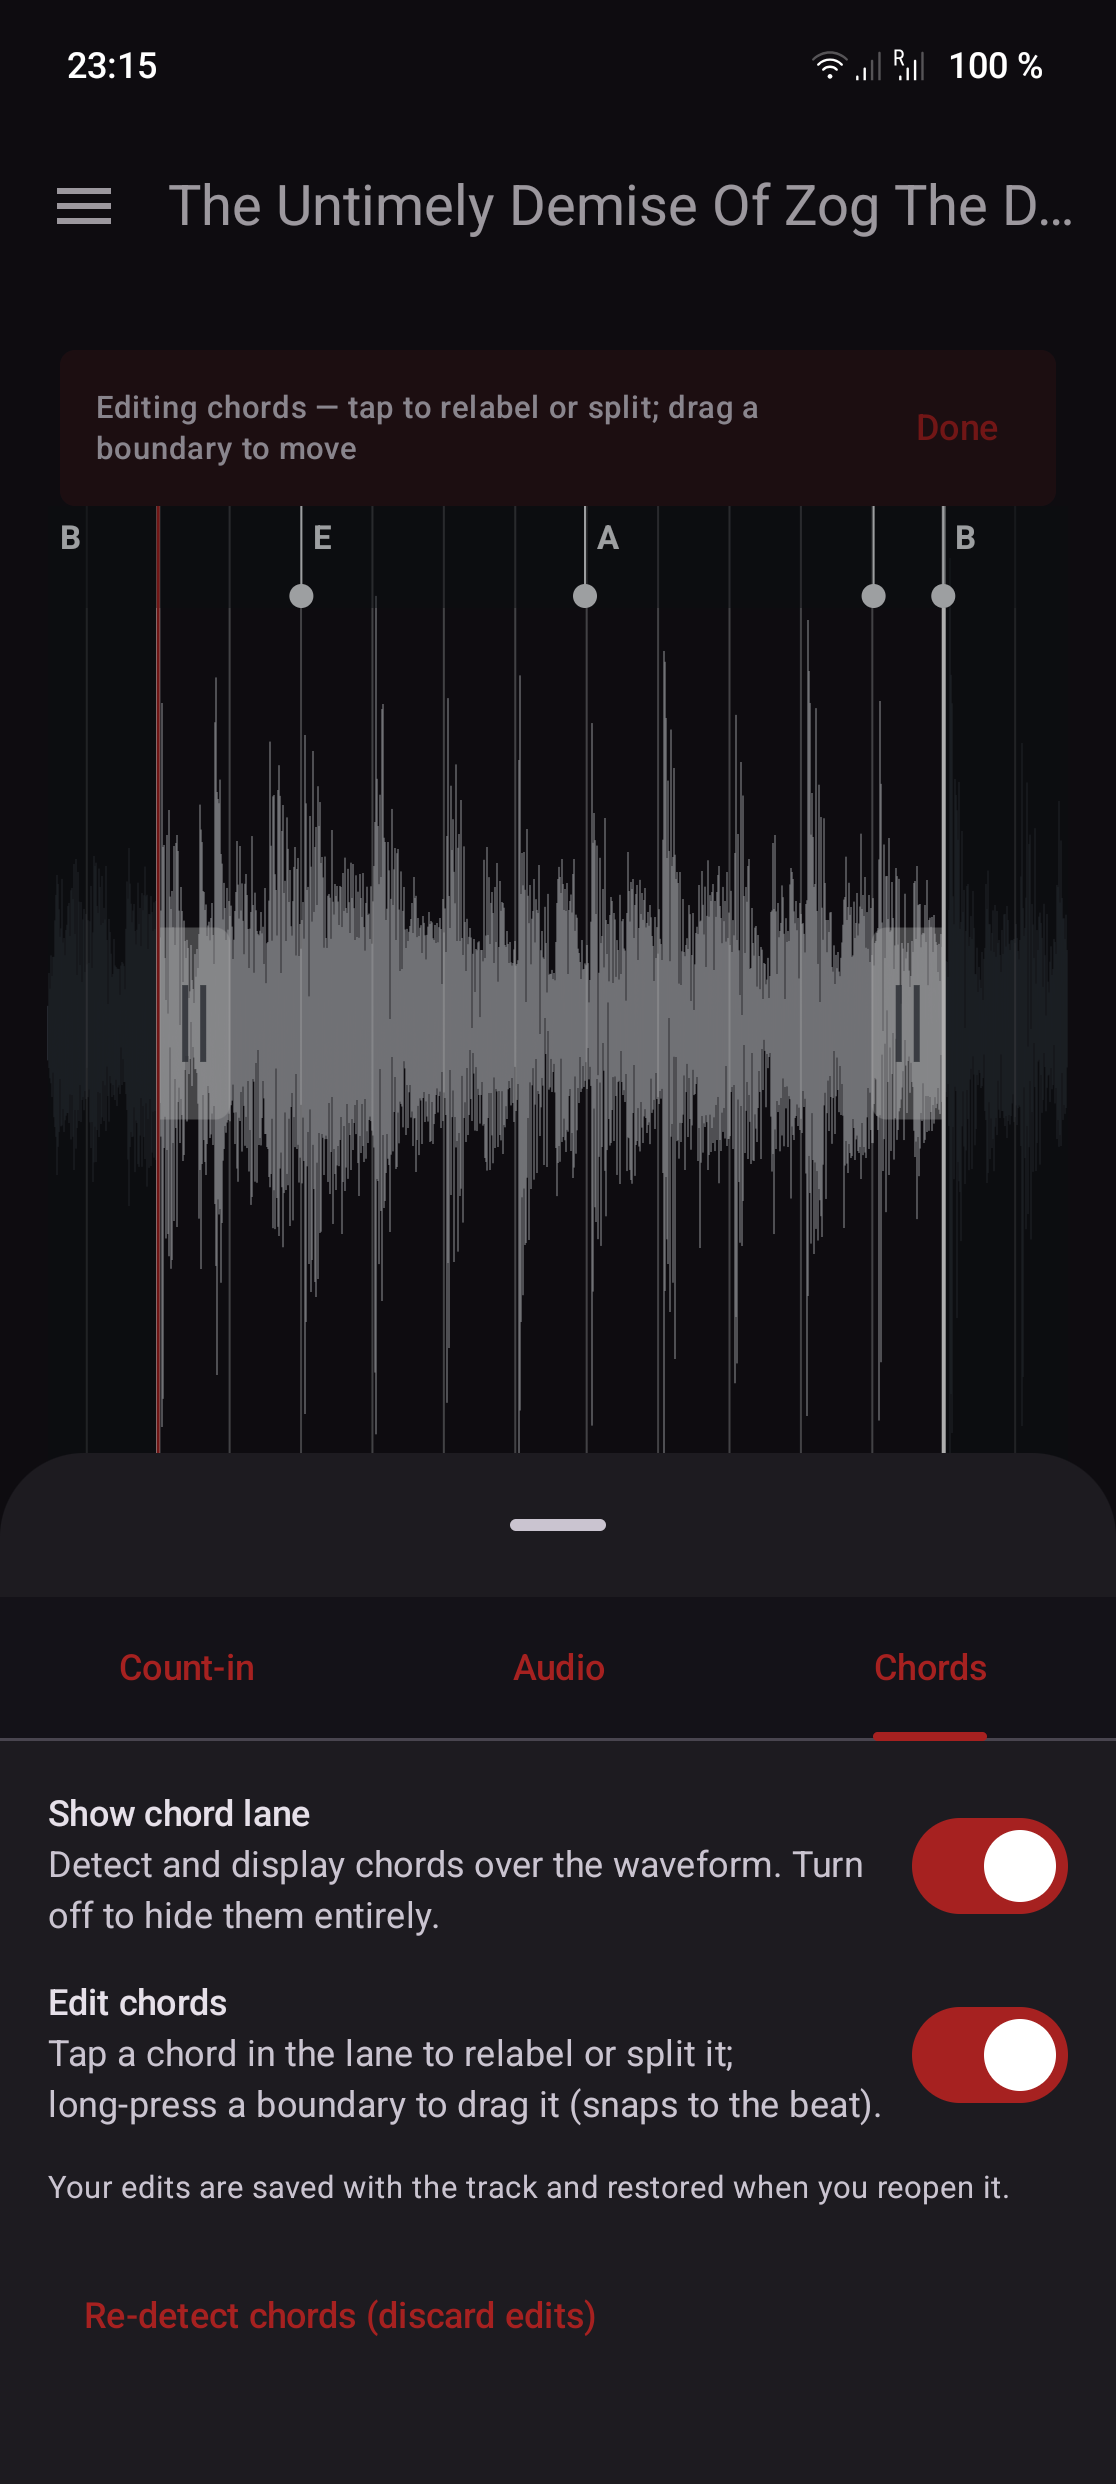
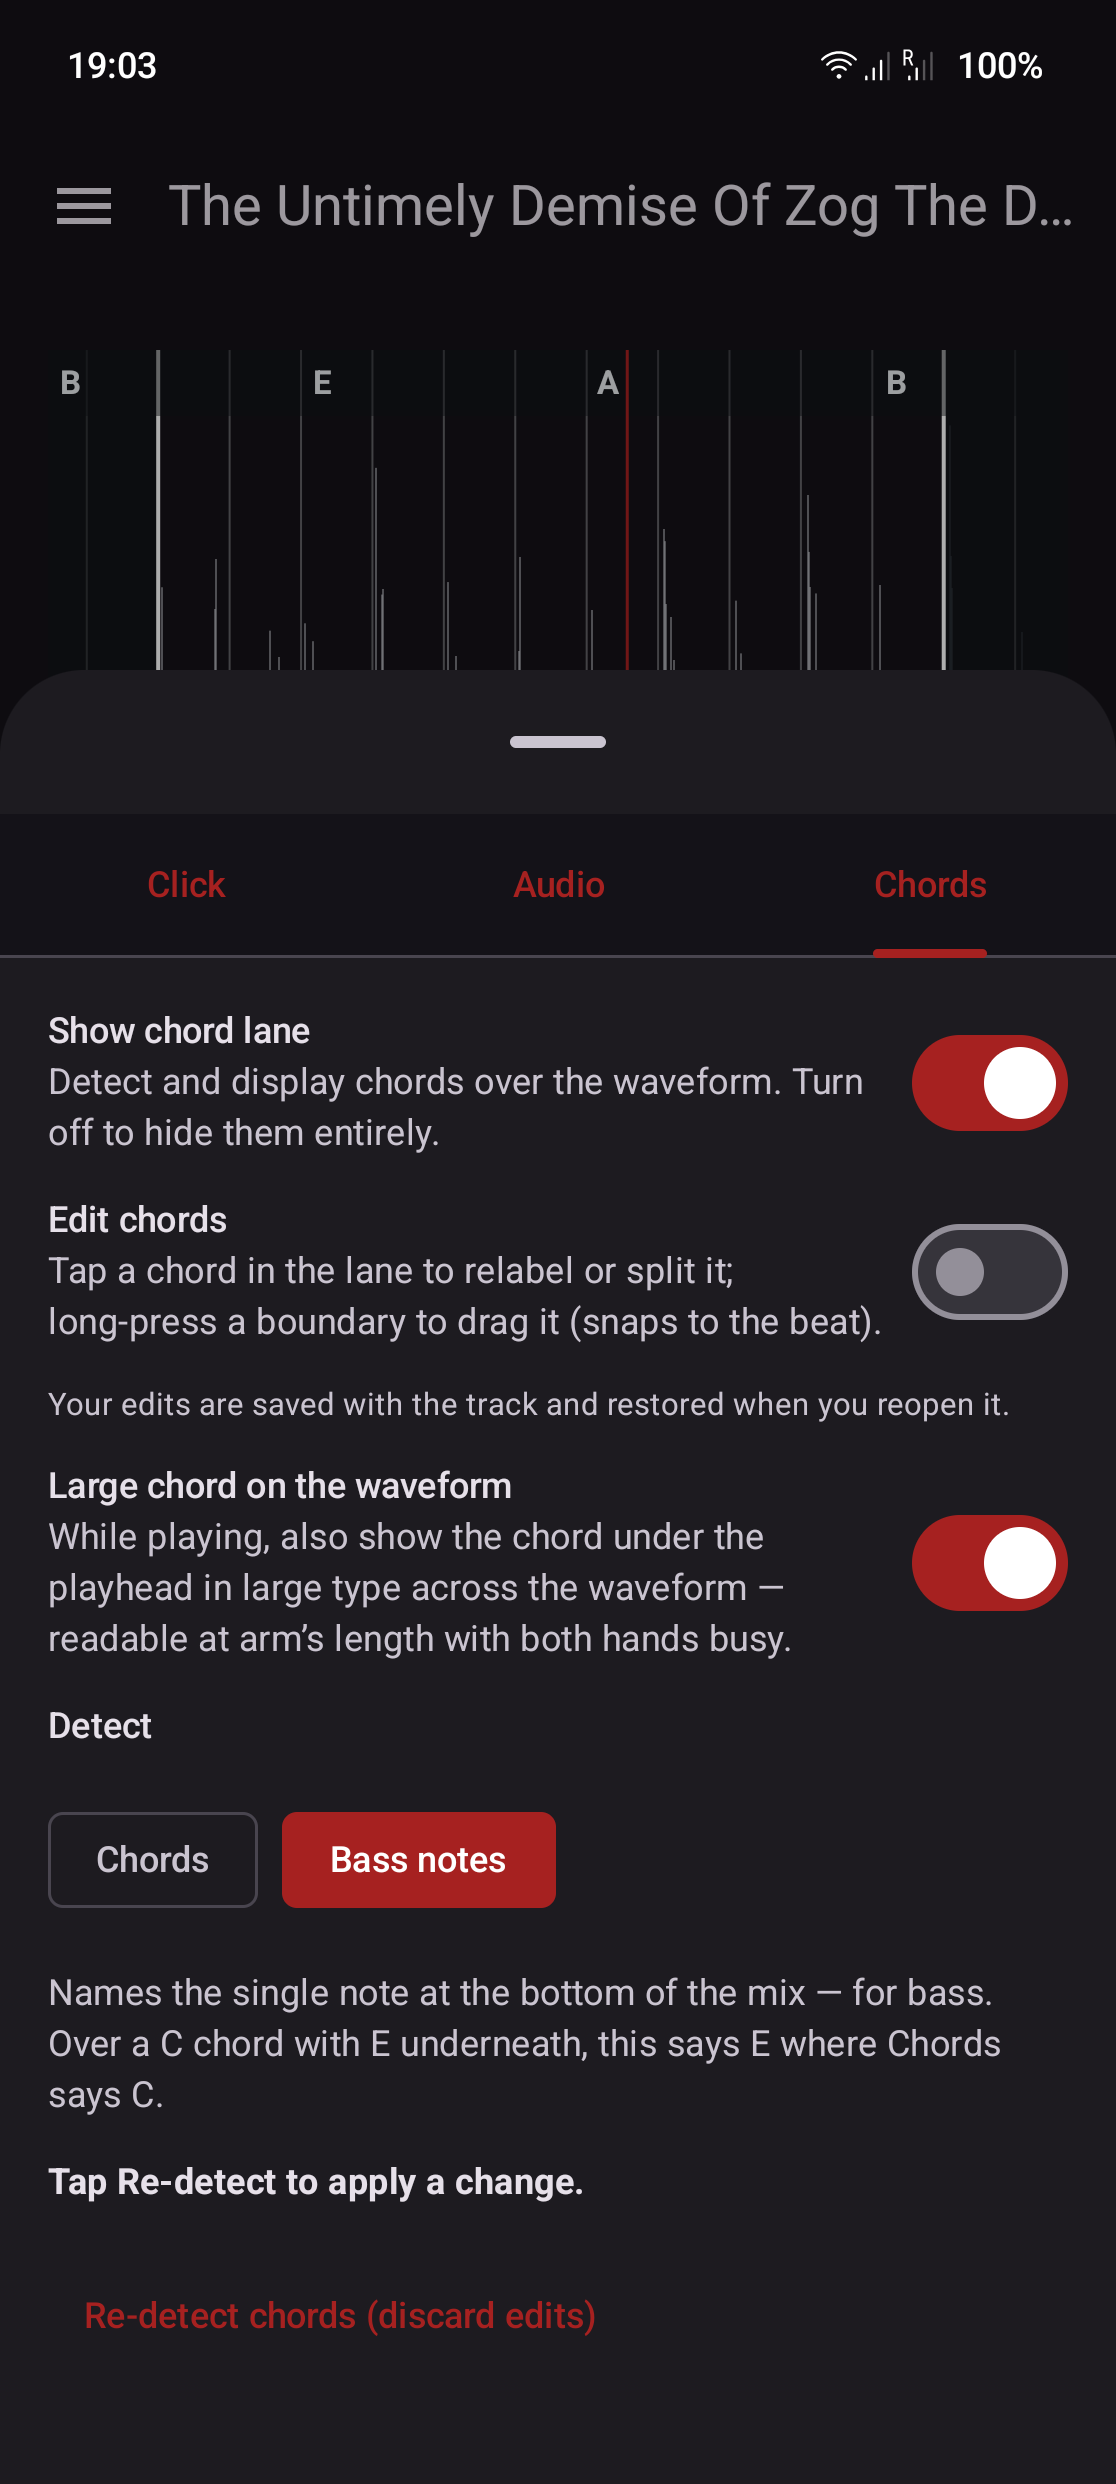
Prepare 0.10 release

diff --git a/CHANGELOG.md b/CHANGELOG.md
@@ -4,6 +4,20 @@ All notable changes to this project are documented here. The format is based on 
 
 ## [Unreleased]
 
+## [0.10] - 2026-08-09
+
+### Added
+- The click can carry on through the whole loop, not only during the count-in, with its own volume and a choice of low, medium or high pitch (Options → Click). At zero volume it is silent, and the count-in does not click either.
+- The chord lane can name bass notes instead of chords: the lowest note in the mix rather than the harmony over it. Over a C chord with an E underneath it says E where chord detection says C, which is the note a bassist is playing when the chord sits on an inversion. Options → Chords, then Re-detect to apply.
+- The chord under the playhead can be shown in large type across the waveform while playing, readable at arm's length with both hands on the instrument (Options → Chords).
+
+### Changed
+- The Count-in tab in Options is now called Click, since it holds every click setting rather than only the count-in.
+- The click is loud enough to be heard over a mastered track.
+
+### Fixed
+- The count-in now lands exactly on the beat the audio comes in on. It is mixed into the same output stream as the track rather than played on a stream of its own, so the two can no longer drift apart by a device-dependent amount.
+
 ## [0.9] - 2026-08-04
 
 ### Added
@@ -122,7 +136,8 @@ Maintenance release: identical features to 0.3, rebuilt with clean release hygie
 - Multiple named saved loops per track; custom, renameable track titles.
 - Follow-playhead auto-scroll, keep-screen-on, and an in-app quick-help sheet.
 
-[Unreleased]: https://github.com/mkay/RubberRing/compare/v0.9...HEAD
+[Unreleased]: https://github.com/mkay/RubberRing/compare/v0.10...HEAD
+[0.10]: https://github.com/mkay/RubberRing/compare/v0.9...v0.10
 [0.9]: https://github.com/mkay/RubberRing/compare/v0.8...v0.9
 [0.8]: https://github.com/mkay/RubberRing/compare/v0.7.1...v0.8
 [0.7.1]: https://github.com/mkay/RubberRing/compare/v0.7...v0.7.1

diff --git a/app/src/main/res/raw-de/whatsnew.md b/app/src/main/res/raw-de/whatsnew.md
@@ -5,10 +5,8 @@ unverändert angezeigt; kurze Stichpunkte, etwa vier. Die Versionsnummer steht i
 gehört nicht hierher.
 -->
 
-• Der Klick läuft auf Wunsch durch die ganze Schleife weiter, nicht mehr nur beim Einzählen — mit eigener Lautstärke und drei Klanghöhen, unter Optionen → Klick.
-
-• Das Einzählen trifft jetzt genau den Schlag, auf dem die Musik einsetzt — auf jedem Gerät.
+• Der Klick läuft auf Wunsch durch die ganze Schleife weiter, nicht mehr nur beim Einzählen — mit eigenem Lautstärkeregler und drei Klanghöhen, unter Optionen → Klick.
 
 • Die Akkordspur kann statt Akkorden auch Basstöne benennen: den tiefsten Ton statt der Harmonie darüber. Unter Optionen → Akkorde.
 
-• Der Akkord an der Abspielposition lässt sich während der Wiedergabe groß über der Wellenform anzeigen — lesbar, auch wenn beide Hände beschäftigt sind.
+• Der Akkord an der Abspielposition lässt sich während der Wiedergabe in einer großen Kachel anzeigen — lesbar, auch aus einigem Abstand.

diff --git a/app/src/main/res/raw/whatsnew.md b/app/src/main/res/raw/whatsnew.md
@@ -9,10 +9,8 @@ what the dialog holds without scrolling. Don't write the version number here; th
 from the build.
 -->
 
-• The click can carry on through the loop, not only during the count-in — with its own volume and three pitches, under Options → Click.
-
-• The count-in now lands exactly on the beat the audio comes in on, whatever your device.
+• The click can now carry on through the loop, not only during the count-in — with its own volume slider and three pitches, under Options → Click.
 
 • The chord lane can name bass notes instead of chords: the lowest note rather than the harmony over it. Options → Chords.
 
-• The chord under the playhead can be shown large across the waveform while you play, readable with both hands busy.
+• The chord under the playhead can be shown in a large tile while you play, readable from a fair distance.
